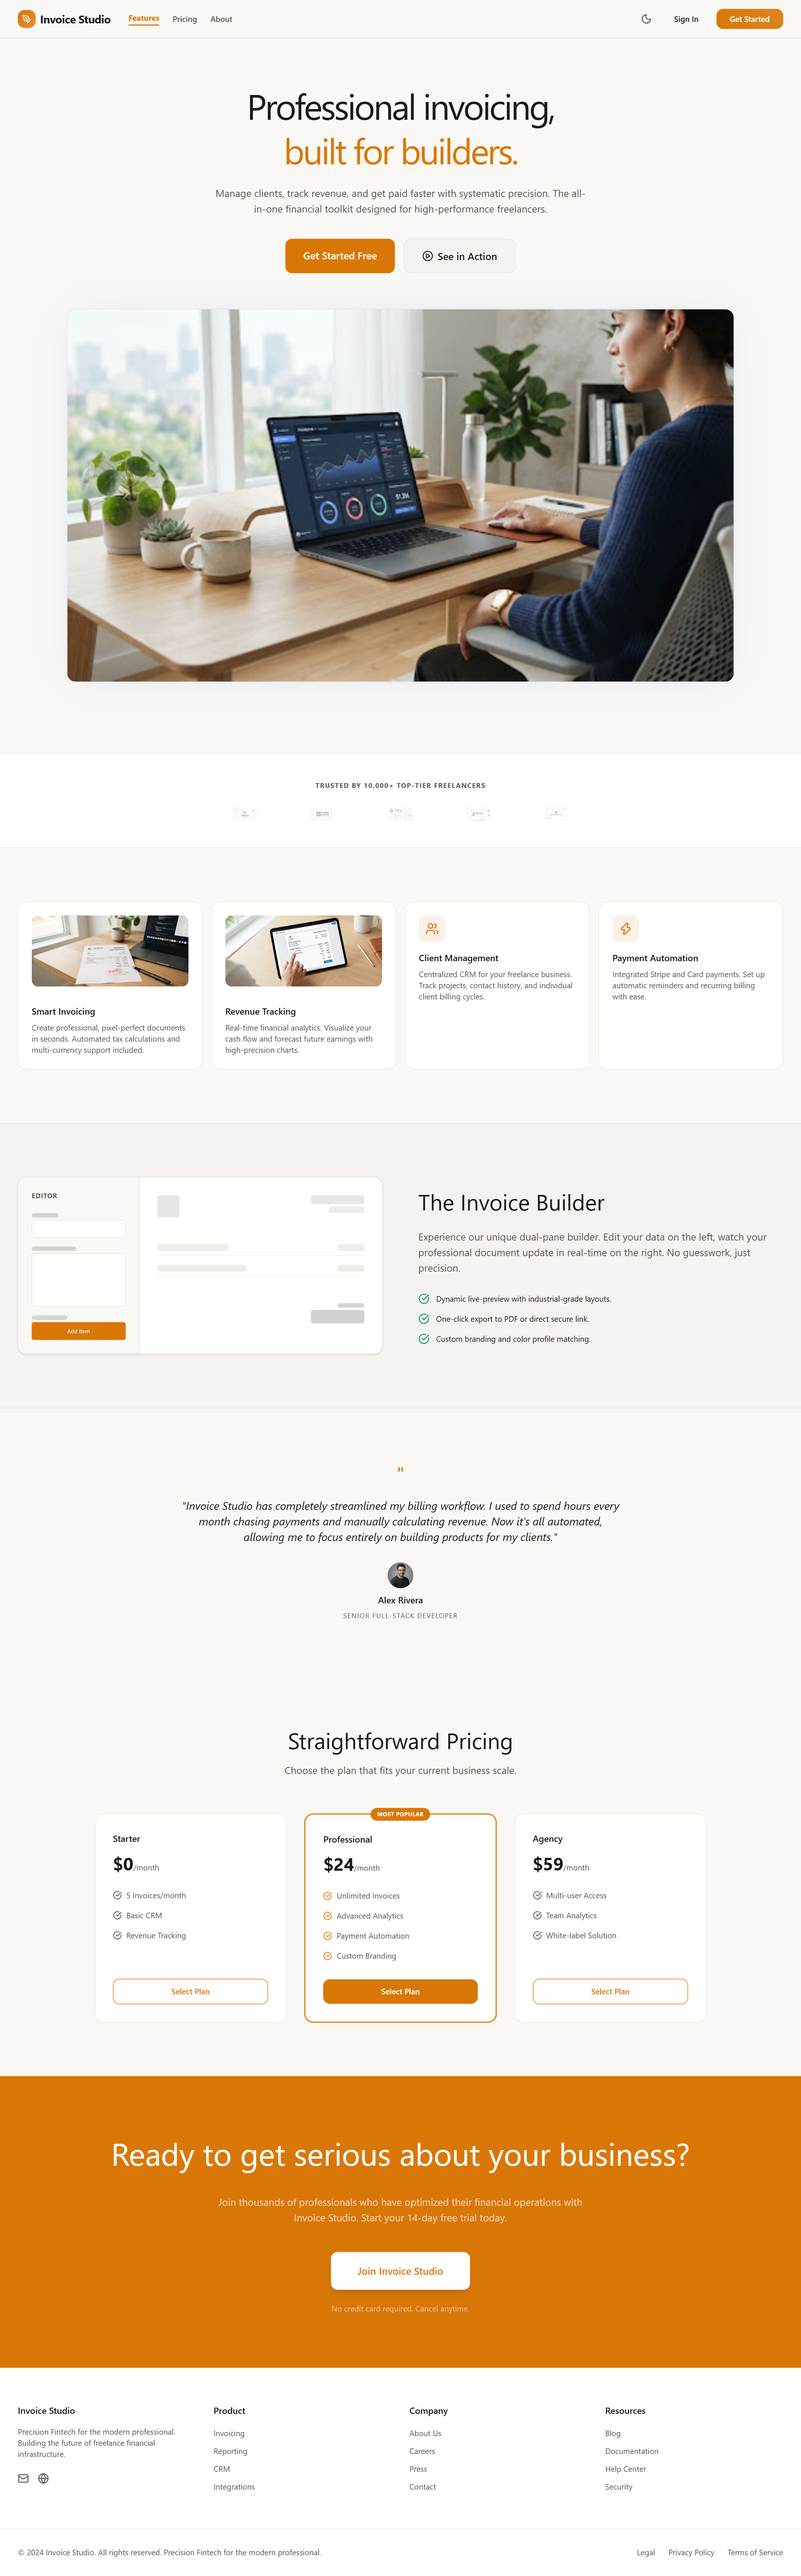
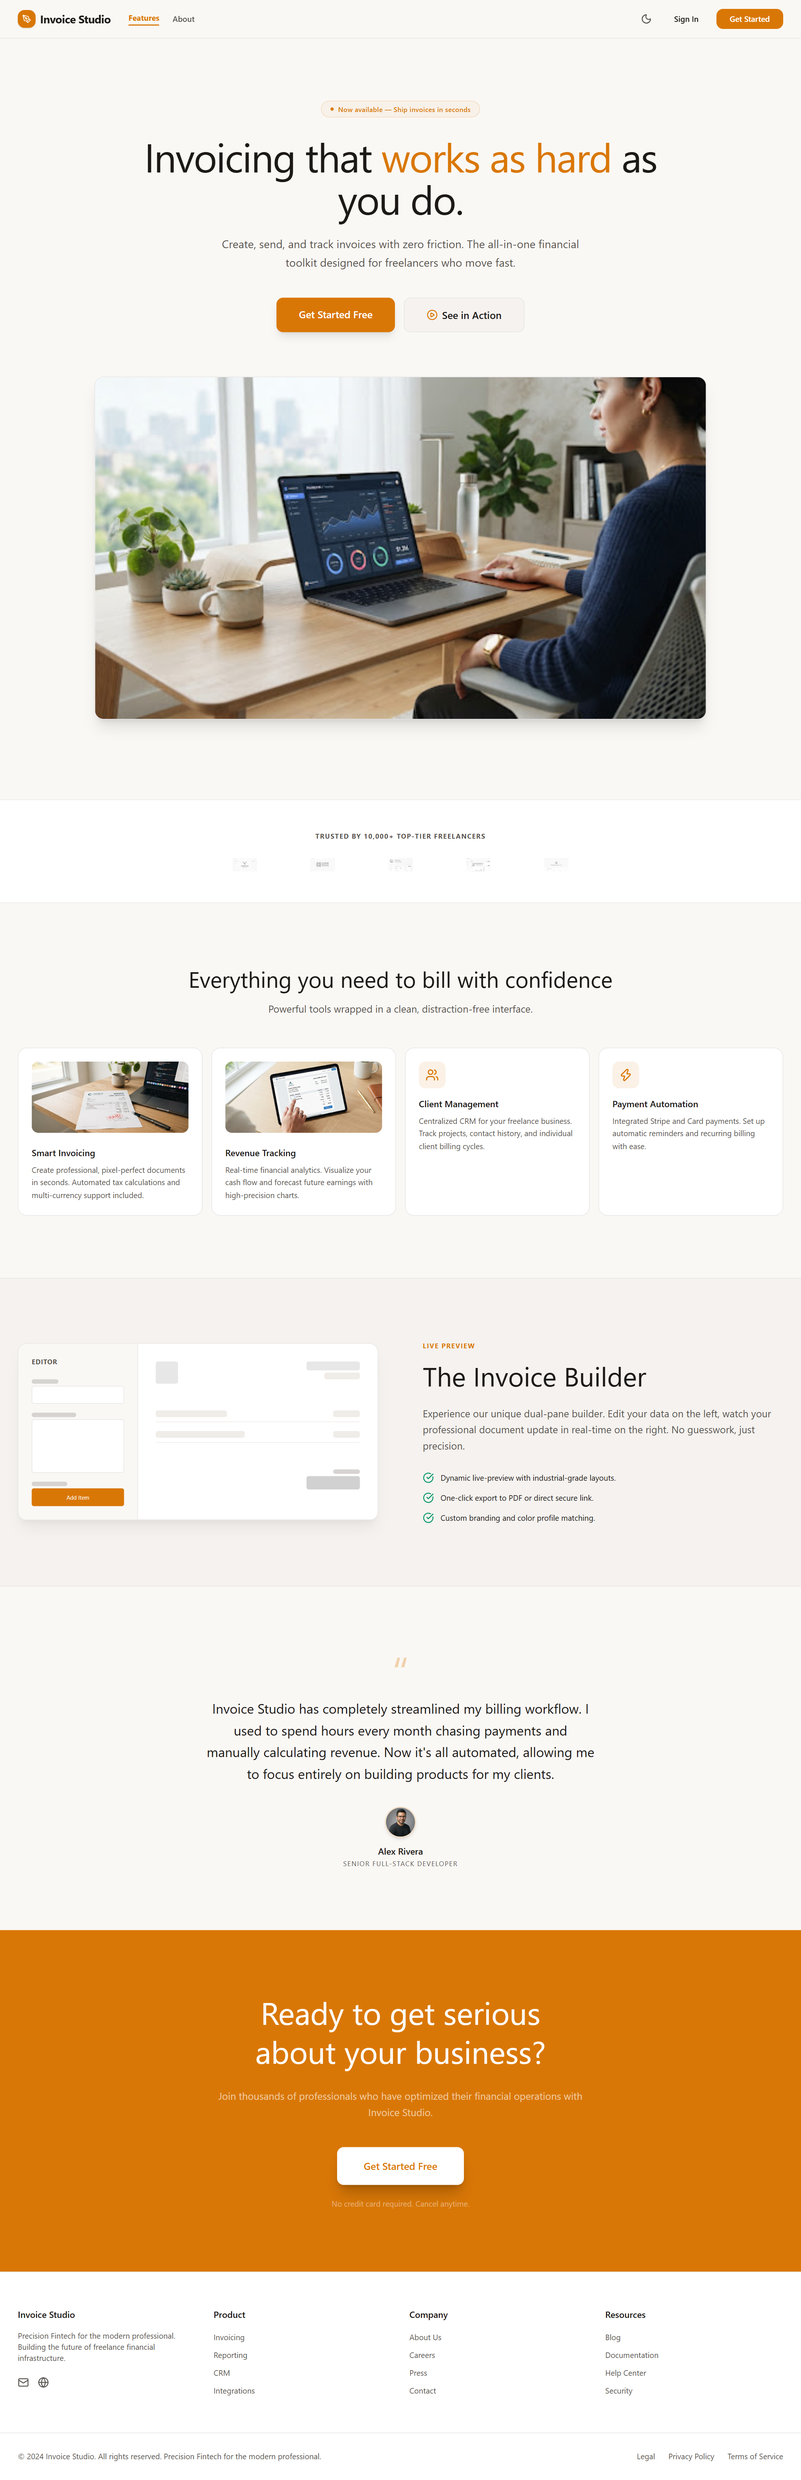
refactor: update call-to-action text on Login page for clarity

diff --git a/frontend/src/pages/Landing.tsx b/frontend/src/pages/Landing.tsx
@@ -1,5 +1,5 @@
 import { Link } from 'react-router-dom';
-import { 
+import {
   PlayCircle,
   CheckCircle,
   Users,
@@ -22,25 +22,25 @@ const features: Array<{
 }> = [
   {
     name: 'Smart Invoicing',
-    description: 'Create professional, pixel-perfect documents in seconds. Automated tax calculations and multi-currency support included.',
+    description: 'Create professional invoices in seconds with automated tax calculations, discounts, and multi-currency support.',
     image: '/images/feature-invoicing.png',
     hasImage: true,
   },
   {
-    name: 'Revenue Tracking',
-    description: 'Real-time financial analytics. Visualize your cash flow and forecast future earnings with high-precision charts.',
+    name: 'Invoice Templates',
+    description: 'Choose from five polished templates — Minimal, Corporate, Modern, Agency, and Elegant — to match your brand.',
     image: '/images/feature-revenue.png',
     hasImage: true,
   },
   {
-    name: 'Client Management',
-    description: 'Centralized CRM for your freelance business. Track projects, contact history, and individual client billing cycles.',
+    name: 'Client Directory',
+    description: 'Keep your clients organized in one place. Create, edit, and manage client details for faster invoicing.',
     icon: Users,
     hasImage: false,
   },
   {
-    name: 'Payment Automation',
-    description: 'Integrated Stripe and Card payments. Set up automatic reminders and recurring billing with ease.',
+    name: 'PDF Export',
+    description: 'Download invoices as professional PDF files with print-ready formatting and your branding applied automatically.',
     icon: Zap,
     hasImage: false,
   },
@@ -54,7 +54,7 @@ const footerLinks = {
 
 export function Landing() {
   const { theme, toggleTheme } = useTheme();
-  
+
   return (
     <div className="min-h-screen bg-background">
       {/* Navbar */}
@@ -62,7 +62,7 @@ export function Landing() {
         <div className="flex justify-between items-center w-full px-4 sm:px-8 py-4 max-w-[1440px] mx-auto">
           <div className="flex items-center gap-8">
             <div className="flex items-center gap-2">
-              <div className="w-8 h-8 bg-gradient-to-br from-secondary to-secondary/80 flex items-center justify-center rounded-lg shadow-sm">
+              <div className="w-8 h-8 bg-secondary flex items-center justify-center rounded-lg shadow-sm">
                 <PenTool className="w-4 h-4 text-white" />
               </div>
               <span className="text-lg sm:text-xl font-bold text-primary tracking-tight font-headline whitespace-nowrap">Invoice Studio</span>
@@ -81,48 +81,64 @@ export function Landing() {
               {theme === 'light' ? <Moon className="w-5 h-5" /> : <Sun className="w-5 h-5" />}
             </button>
             <Link to="/login" className="hidden sm:inline px-4 py-2 text-sm font-medium text-primary hover:text-secondary transition-colors">Sign In</Link>
-            <Link to="/signup" className="px-4 sm:px-6 py-2 bg-gradient-to-r from-secondary to-secondary/90 text-white rounded-lg text-sm font-semibold hover:shadow-lg hover:scale-105 transition-all">Get Started</Link>
+            <Link to="/signup" className="px-4 sm:px-6 py-2 bg-secondary text-white rounded-lg text-sm font-semibold hover:shadow-lg hover:scale-105 transition-all">Get Started</Link>
           </div>
         </div>
       </nav>
 
       <main>
         {/* Hero Section */}
-        <section className="relative pt-16 sm:pt-20 pb-20 sm:pb-32 overflow-hidden px-4 sm:px-8">
-          <div className="max-w-[1440px] mx-auto text-center mb-12 sm:mb-16">
-            <h1 className="font-headline text-[40px] sm:text-[48px] md:text-[64px] leading-tight mb-6 tracking-tighter max-w-4xl mx-auto">
-              Professional invoicing, <br /><span className="text-secondary">built for builders.</span>
+        <section className="relative pt-20 sm:pt-28 pb-24 sm:pb-36 overflow-hidden px-4 sm:px-8">
+          <div className="max-w-[1440px] mx-auto text-center mb-14 sm:mb-20 relative z-10">
+            {/* Badge */}
+            <div className="inline-flex items-center gap-2 px-4 py-1.5 rounded-full border border-secondary/20 bg-secondary/5 text-secondary text-xs font-semibold mb-8 tracking-wide">
+              <span className="w-1.5 h-1.5 rounded-full bg-secondary animate-pulse" />
+              Now available — Ship invoices in seconds
+            </div>
+
+            <h1 className="font-headline text-[44px] sm:text-[56px] md:text-[72px] leading-[1.05] mb-7 tracking-tight max-w-5xl mx-auto">
+              Invoicing that{' '}
+              <span className="text-secondary">
+                works as hard
+              </span>{' '}
+              as you do.
             </h1>
-            <p className="text-lg text-on-surface-variant max-w-2xl mx-auto mb-10">
-              Manage clients, track revenue, and get paid faster with systematic precision. The all-in-one financial toolkit designed for high-performance freelancers.
+            <p className="text-lg sm:text-xl text-on-surface-variant max-w-2xl mx-auto mb-12 leading-relaxed">
+              Create professional invoices with live previews, download as PDF, and manage clients and products — all in one clean, fast interface.
             </p>
             <div className="flex flex-col sm:flex-row justify-center gap-4 px-2">
-              <Link to="/signup" className="px-8 py-4 bg-secondary text-white rounded-xl text-lg font-semibold hover:scale-[1.02] active:scale-[0.98] transition-all">
-                Get Started Free
+              <Link
+                to="/signup"
+                className="group relative px-10 py-4 bg-secondary text-white rounded-xl text-lg font-semibold shadow-lg hover:shadow-xl hover:scale-[1.02] active:scale-[0.98] transition-all"
+              >
+                <span className="relative z-10">Get Started Free</span>
               </Link>
-              <button className="px-8 py-4 bg-surface-container-low border border-border-subtle rounded-xl text-lg font-semibold hover:bg-surface-container transition-all flex items-center justify-center gap-2">
-                <PlayCircle className="w-5 h-5" />
+              <Link
+                to="/login"
+                className="px-10 py-4 bg-surface-container-low border border-border-subtle rounded-xl text-lg font-semibold hover:bg-surface-container hover:border-secondary/30 transition-all flex items-center justify-center gap-2"
+              >
+                <PlayCircle className="w-5 h-5 text-secondary" />
                 See in Action
-              </button>
+              </Link>
             </div>
           </div>
-          
+
           {/* Dashboard Preview */}
-          <div className="max-w-[1200px] mx-auto relative">
-            <div className="bg-surface-container-lowest border border-border-subtle rounded-2xl overflow-hidden shadow-xl" style={{ boxShadow: '0 0 80px -20px rgba(0, 81, 213, 0.15)' }}>
-              <img 
-                alt="Professional fintech dashboard in a modern home office" 
-                className="w-full h-full object-cover" 
-                src="/images/hero-dashboard.png" 
+          <div className="max-w-[1100px] mx-auto relative z-10">
+            <div className="relative bg-surface-container-lowest border border-border-subtle rounded-2xl overflow-hidden shadow-xl">
+              <img
+                alt="Professional fintech dashboard in a modern home office"
+                className="w-full h-full object-cover"
+                src="/images/hero-dashboard.png"
               />
             </div>
           </div>
         </section>
 
         {/* Social Proof */}
-        <section className="py-12 border-y border-border-subtle bg-surface-container-lowest">
+        <section className="py-14 border-y border-border-subtle bg-surface-container-lowest">
           <div className="max-w-[1440px] mx-auto px-4 sm:px-8">
-            <p className="text-center text-xs font-bold text-on-surface-variant uppercase tracking-widest mb-8">Trusted by 10,000+ top-tier freelancers</p>
+            <p className="text-center text-xs font-bold text-on-surface-variant uppercase tracking-widest mb-8">Trusted by freelancers worldwide</p>
             <div className="flex flex-wrap justify-center items-center gap-12 md:gap-24 opacity-50 grayscale hover:grayscale-0 transition-all duration-500">
               <img className="h-6" src="/images/logo-vertex.png" alt="Vertex Design" />
               <img className="h-6" src="/images/logo-codestack.png" alt="CodeStack" />
@@ -134,28 +150,30 @@ export function Landing() {
         </section>
 
         {/* Key Features */}
-        <section id="features" className="py-16 sm:py-24 px-4 sm:px-8">
+        <section id="features" className="py-20 sm:py-28 px-4 sm:px-8">
           <div className="max-w-[1440px] mx-auto">
+            <div className="text-center mb-14">
+              <h2 className="font-headline text-3xl sm:text-[40px] mb-4">Everything you need to invoice professionally</h2>
+              <p className="text-lg text-on-surface-variant max-w-xl mx-auto">Create, manage, and download invoices — with a clean interface that stays out of your way.</p>
+            </div>
             <div className="grid grid-cols-1 sm:grid-cols-2 lg:grid-cols-4 gap-4">
               {features.map((feature) => (
-                <div 
+                <div
                   key={feature.name}
-                  className="p-6 bg-surface-container-lowest border border-border-subtle rounded-2xl flex flex-col gap-4 hover:border-secondary transition-all duration-200"
-                  onMouseEnter={(e) => (e.currentTarget.style.transform = 'translateY(-2px)')}
-                  onMouseLeave={(e) => (e.currentTarget.style.transform = 'translateY(0)')}
+                  className="group p-6 bg-surface-container-lowest border border-border-subtle rounded-2xl flex flex-col gap-4 hover:border-secondary/40 hover:shadow-lg hover:shadow-secondary/5 transition-all duration-300"
                 >
                   {feature.hasImage ? (
-                    <div className="w-full h-32 mb-4 overflow-hidden rounded-lg">
-                      <img alt={feature.name} className="w-full h-full object-cover" src={feature.image} />
+                    <div className="w-full h-32 mb-2 overflow-hidden rounded-lg">
+                      <img alt={feature.name} className="w-full h-full object-cover group-hover:scale-105 transition-transform duration-500" src={feature.image} />
                     </div>
                   ) : feature.icon ? (
-                    <div className="w-12 h-12 bg-secondary/10 text-secondary flex items-center justify-center rounded-lg">
+                    <div className="w-12 h-12 bg-secondary/10 text-secondary flex items-center justify-center rounded-xl">
                       <feature.icon className="w-6 h-6" />
                     </div>
                   ) : null}
                   <div>
                     <h3 className="font-headline text-base font-semibold mb-2">{feature.name}</h3>
-                    <p className="text-sm text-on-surface-variant">{feature.description}</p>
+                    <p className="text-sm text-on-surface-variant leading-relaxed">{feature.description}</p>
                   </div>
                 </div>
               ))}
@@ -164,10 +182,10 @@ export function Landing() {
         </section>
 
         {/* Invoice Builder Feature */}
-        <section className="py-16 sm:py-24 bg-surface-container-low border-y border-border-subtle px-4 sm:px-8">
-          <div className="max-w-[1440px] mx-auto grid grid-cols-1 lg:grid-cols-2 gap-10 lg:gap-16 items-center">
+        <section id="about" className="py-20 sm:py-28 bg-surface-container-low border-y border-border-subtle px-4 sm:px-8">
+          <div className="max-w-[1440px] mx-auto grid grid-cols-1 lg:grid-cols-2 gap-12 lg:gap-20 items-center">
             <div className="order-2 lg:order-1">
-              <div className="bg-surface-container-lowest rounded-2xl border border-border-subtle overflow-hidden shadow-sm">
+              <div className="bg-surface-container-lowest rounded-2xl border border-border-subtle overflow-hidden shadow-xl shadow-black/5">
                 <div className="flex border-b border-border-subtle">
                   <div className="w-1/3 p-6 border-r border-border-subtle bg-surface">
                     <h4 className="text-xs font-bold text-on-surface-variant mb-6 uppercase tracking-wider">Editor</h4>
@@ -215,22 +233,23 @@ export function Landing() {
               </div>
             </div>
             <div className="order-1 lg:order-2">
-              <h2 className="font-headline text-[40px] leading-tight mb-6">The Invoice Builder</h2>
-              <p className="text-lg text-on-surface-variant mb-8">
+              <span className="text-secondary text-xs font-bold uppercase tracking-widest mb-4 block">Live Preview</span>
+              <h2 className="font-headline text-[40px] sm:text-[48px] leading-tight mb-6">The Invoice Builder</h2>
+              <p className="text-lg text-on-surface-variant mb-8 leading-relaxed">
                 Experience our unique dual-pane builder. Edit your data on the left, watch your professional document update in real-time on the right. No guesswork, just precision.
               </p>
               <ul className="space-y-4">
                 <li className="flex items-center gap-3 text-sm">
                   <CheckCircle className="w-5 h-5 text-status-paid flex-shrink-0" />
-                  Dynamic live-preview with industrial-grade layouts.
+                  Live dual-pane preview — edit on the left, see results on the right.
                 </li>
                 <li className="flex items-center gap-3 text-sm">
                   <CheckCircle className="w-5 h-5 text-status-paid flex-shrink-0" />
-                  One-click export to PDF or direct secure link.
+                  Download as PDF with print-ready formatting.
                 </li>
                 <li className="flex items-center gap-3 text-sm">
                   <CheckCircle className="w-5 h-5 text-status-paid flex-shrink-0" />
-                  Custom branding and color profile matching.
+                  Five professional templates to match your style.
                 </li>
               </ul>
             </div>
@@ -238,36 +257,40 @@ export function Landing() {
         </section>
 
         {/* Testimonial */}
-        <section className="py-16 sm:py-24 px-4 sm:px-8">
-          <div className="max-w-[800px] mx-auto text-center">
-            <span className="text-secondary text-4xl mb-6 block">"</span>
-            <blockquote className="text-xl italic mb-8 text-primary">
-              "Invoice Studio has completely streamlined my billing workflow. I used to spend hours every month chasing payments and manually calculating revenue. Now it's all automated, allowing me to focus entirely on building products for my clients."
+        <section className="py-20 sm:py-28 px-4 sm:px-8">
+          <div className="max-w-[700px] mx-auto text-center">
+            <span className="text-secondary/30 text-[80px] font-headline leading-none block mb-2">&ldquo;</span>
+            <blockquote className="text-xl sm:text-2xl mb-10 text-primary leading-relaxed">
+              Invoice Studio has completely streamlined my invoicing workflow. I used to spend hours every month formatting documents and managing client details. Now everything is organized in one place, and I can generate professional invoices in seconds.
             </blockquote>
-            <div className="flex flex-col items-center gap-2">
-              <div className="w-12 h-12 rounded-full overflow-hidden border border-border-subtle">
+            <div className="flex flex-col items-center gap-3">
+              <div className="w-14 h-14 rounded-full overflow-hidden border-2 border-secondary/20 shadow-md">
                 <img className="w-full h-full object-cover" src="/images/avatar-alex.png" alt="Alex Rivera" />
               </div>
-              <p className="font-semibold text-primary">Alex Rivera</p>
-              <p className="text-xs text-on-surface-variant uppercase tracking-widest">Senior Full-Stack Developer</p>
+              <div>
+                <p className="font-semibold text-primary">Alex Rivera</p>
+                <p className="text-xs text-on-surface-variant uppercase tracking-widest mt-0.5">Senior Full-Stack Developer</p>
+              </div>
             </div>
           </div>
         </section>
 
         {/* Final CTA */}
-        <section className="py-16 sm:py-24 px-4 sm:px-8 relative overflow-hidden bg-secondary">
-          <div className="absolute inset-0 opacity-10 pointer-events-none">
-            <div className="absolute top-0 left-0 w-full h-full" style={{ backgroundImage: 'radial-gradient(#ffffff 1px, transparent 1px)', backgroundSize: '40px 40px' }}></div>
-          </div>
-          <div className="max-w-[1440px] mx-auto text-center relative z-10">
-            <h2 className="font-headline text-[40px] sm:text-[48px] md:text-[56px] text-white mb-8">Ready to get serious about your business?</h2>
-            <p className="text-lg text-white/70 max-w-2xl mx-auto mb-12">
-              Join thousands of professionals who have optimized their financial operations with Invoice Studio. Start your 14-day free trial today.
+        <section className="py-20 sm:py-28 px-4 sm:px-8 bg-secondary">
+          <div className="max-w-[1440px] mx-auto text-center">
+            <h2 className="font-headline text-[40px] sm:text-[48px] md:text-[56px] text-white mb-8 leading-tight">
+              Ready to get serious<br className="hidden sm:block" /> about your business?
+            </h2>
+            <p className="text-lg text-white/60 max-w-2xl mx-auto mb-12 leading-relaxed">
+              Join thousands of freelancers who create professional invoices faster with Invoice Studio.
             </p>
-            <Link to="/signup" className="inline-block px-12 py-5 bg-white text-secondary rounded-xl text-lg font-semibold hover:scale-[1.05] active:scale-[0.98] transition-all shadow-lg">
-              Join Invoice Studio
+            <Link
+              to="/signup"
+              className="inline-block px-12 py-5 bg-white text-secondary rounded-xl text-lg font-semibold hover:scale-[1.05] active:scale-[0.98] transition-all shadow-xl shadow-black/20"
+            >
+              Get Started Free
             </Link>
-            <p className="mt-6 text-sm text-white/50">No credit card required. Cancel anytime.</p>
+            <p className="mt-6 text-sm text-white/40">No credit card required. Cancel anytime.</p>
           </div>
         </section>
       </main>

diff --git a/frontend/src/pages/Login.tsx b/frontend/src/pages/Login.tsx
@@ -69,7 +69,7 @@ export function Login() {
                 to="/signup"
                 className="font-semibold text-secondary hover:underline"
               >
-                Start a free trial
+                Create an account
               </Link>
             </p>
 
